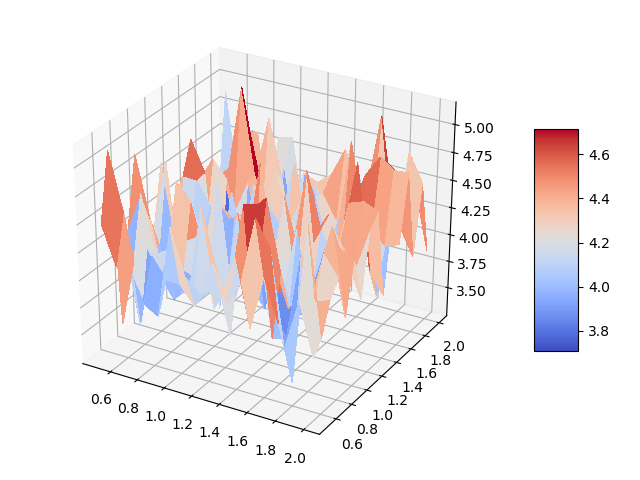
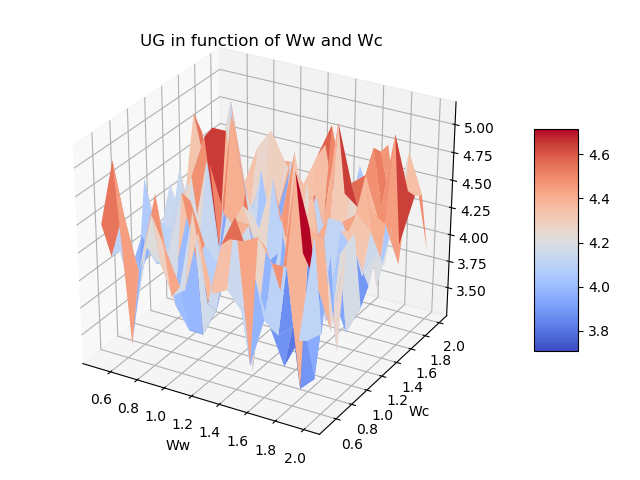
Fix plot

diff --git a/q42.py b/q42.py
@@ -24,7 +24,7 @@ ax = fig.gca(projection='3d')
 # Make data.
 X = np.arange(0.5, 2.1, 0.1)
 Y = np.arange(0.5, 2.1, 0.1)
-X, Y = np.meshgrid(X, Y)
+Y, X = np.meshgrid(X, Y)
 Z = np.array(data)
 print (X)
 print (Y)
@@ -33,8 +33,9 @@ print (X[0,9], Y[0,9], Z[0,9])
 
 # Plot the surface.
 surf = ax.plot_surface(X, Y, Z, cmap=cm.coolwarm,
-                       linewidth=0, antialiased=False)
-
+                       linewidth=0, antialiased=True)
+ax.set(xlabel='Ww', ylabel='Wc',
+       title='UG in function of Ww and Wc')
 # Customize the z axis.
 #ax.set_zlim(-1.01, 1.01)
 #ax.zaxis.set_major_locator(LinearLocator(10))
